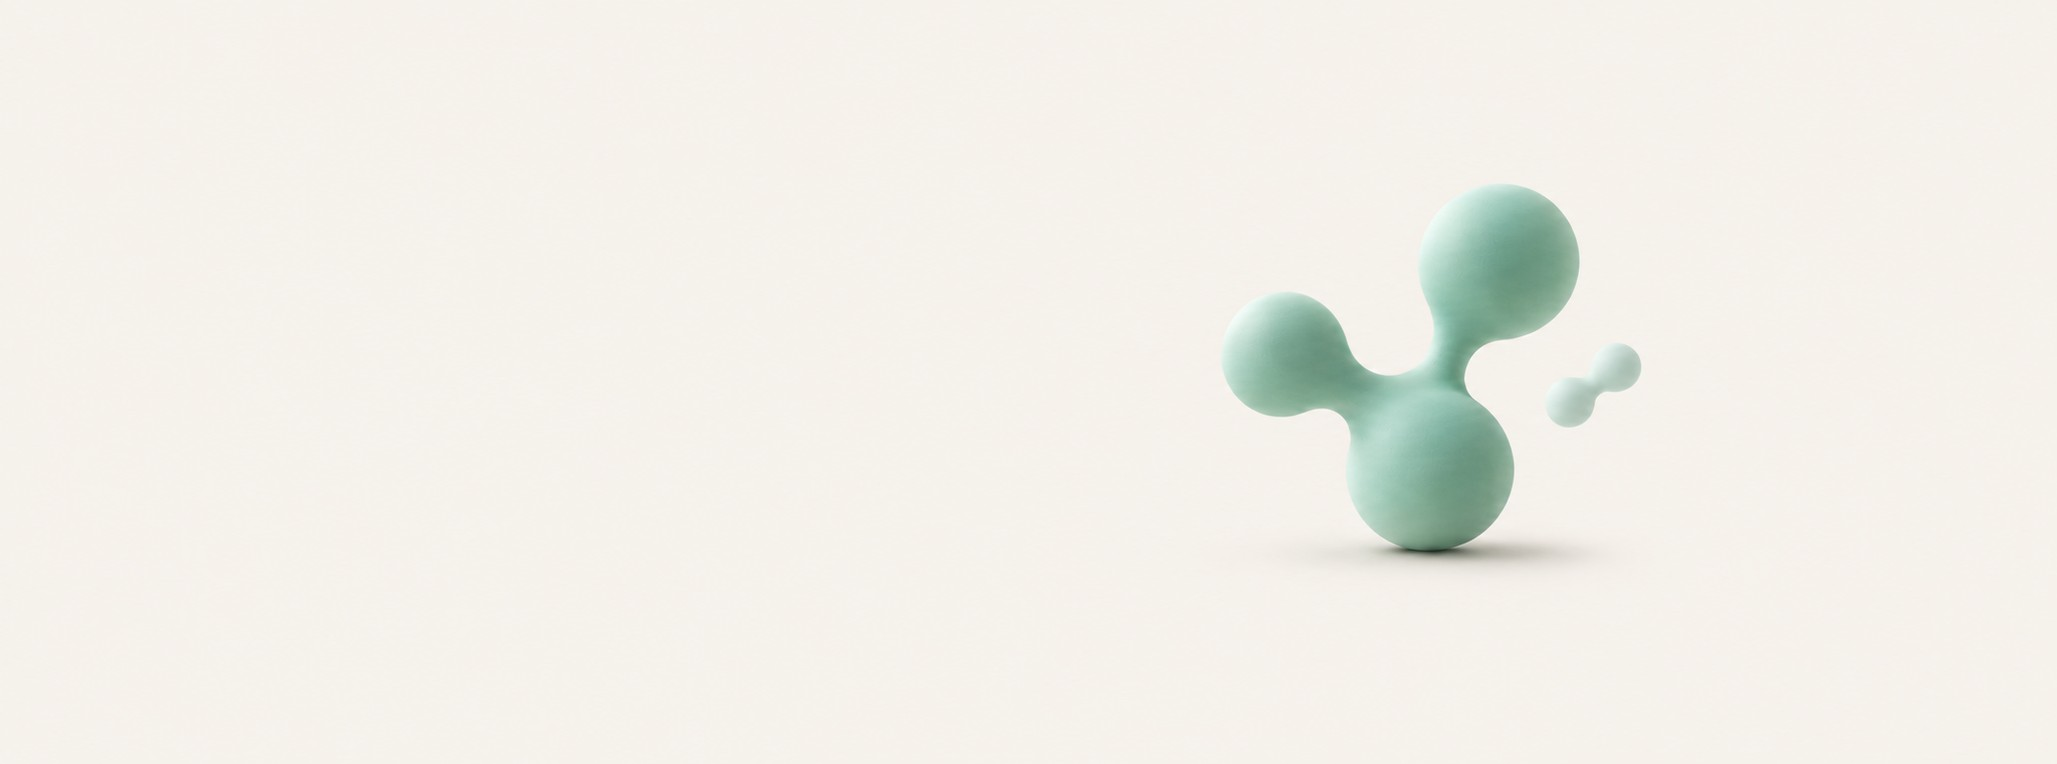
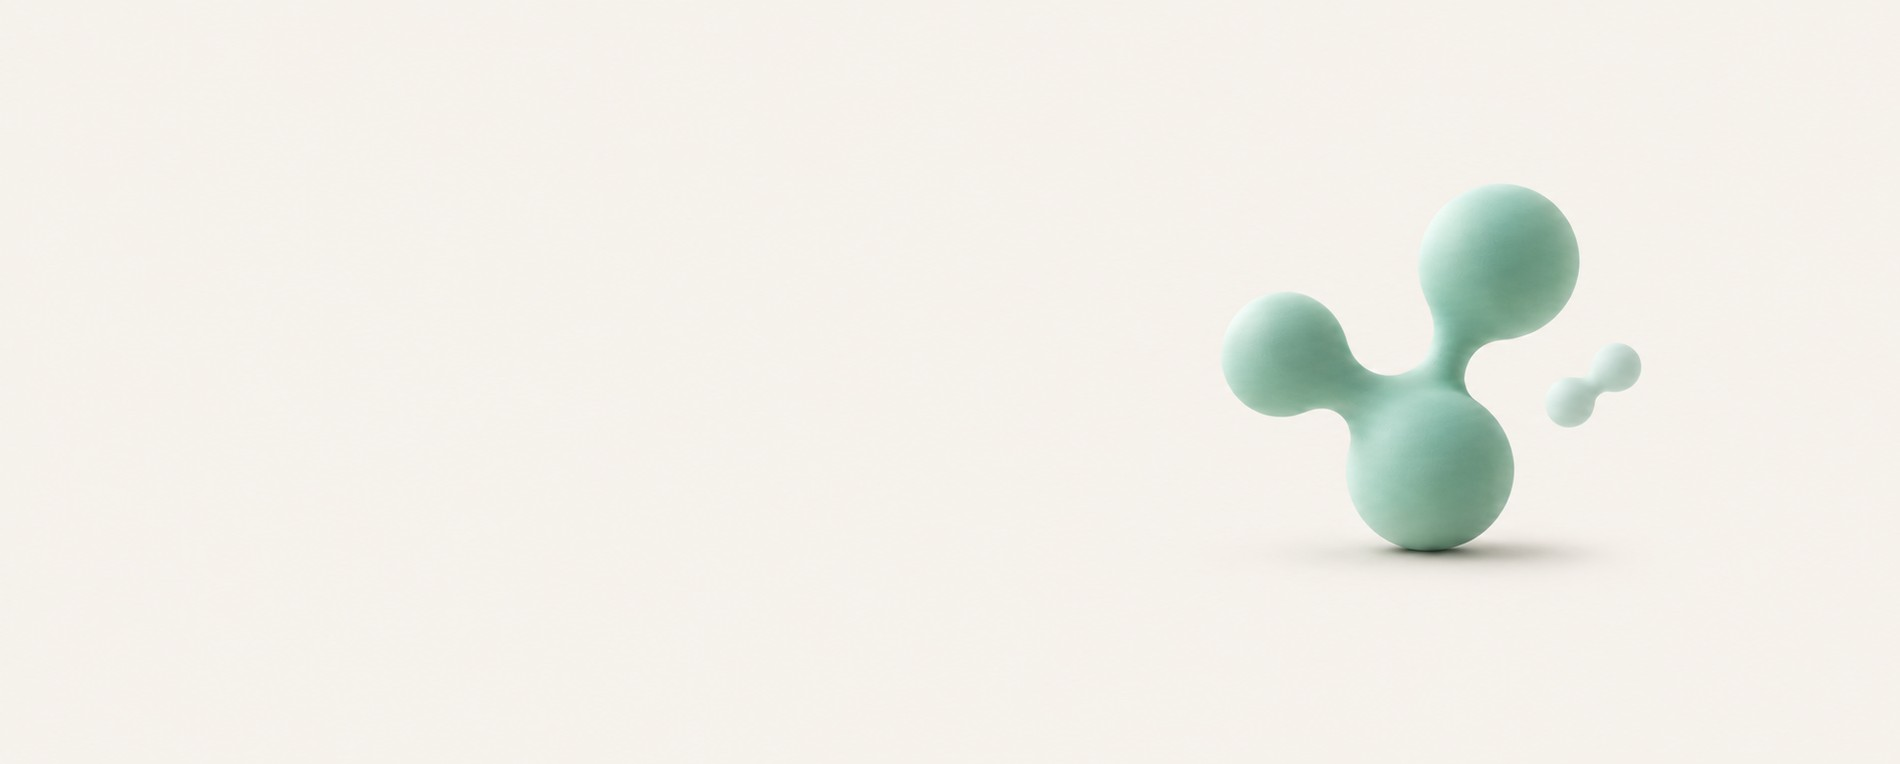
Full-viewport hero, molecule anchored right, glassier nav
Claude-Session: https://claude.ai/code/session_01HsT3WJZKx1Rd495Vy8XRSK

Changed region(s): [[0.59, 0.2408, 0.8695, 0.7526]]

diff --git a/index.html b/index.html
@@ -21,8 +21,10 @@ a{color:#102860;text-decoration:none}
 a:hover{color:#0E8A84}
 button{font-family:inherit}
 @keyframes rise{from{opacity:0;transform:translateY(18px)}to{opacity:1;transform:none}}
-.glass{background:rgba(255,255,255,0.42);-webkit-backdrop-filter:blur(24px) saturate(1.9);backdrop-filter:blur(24px) saturate(1.9);border:1px solid rgba(255,255,255,0.75);border-radius:999px;box-shadow:0 1px 0 rgba(255,255,255,0.9) inset,0 -1px 0 rgba(16,40,96,0.06) inset,0 12px 36px rgba(16,40,96,0.10)}
-@supports not ((backdrop-filter:blur(1px)) or (-webkit-backdrop-filter:blur(1px))){.glass{background:rgba(255,255,255,0.92)}}
+.glass{position:relative;isolation:isolate;background:linear-gradient(135deg,rgba(255,255,255,0.62) 0%,rgba(255,255,255,0.30) 55%,rgba(255,255,255,0.42) 100%);-webkit-backdrop-filter:blur(16px) saturate(1.4) brightness(1.03);backdrop-filter:blur(16px) saturate(1.4) brightness(1.03);border:1px solid rgba(255,255,255,0.9);border-radius:999px;box-shadow:0 1px 0 rgba(255,255,255,1) inset,0 10px 30px rgba(16,40,96,0.08),0 1px 2px rgba(16,40,96,0.06)}
+.glass::before{content:'';position:absolute;inset:0;border-radius:inherit;background:linear-gradient(180deg,rgba(255,255,255,0.55) 0%,rgba(255,255,255,0.08) 48%,rgba(255,255,255,0) 52%,rgba(255,255,255,0.18) 100%);pointer-events:none;z-index:-1}
+.glass::after{content:'';position:absolute;inset:0;border-radius:inherit;background:linear-gradient(90deg,rgba(32,176,168,0.07),rgba(255,255,255,0) 30%,rgba(255,255,255,0) 70%,rgba(16,40,96,0.05));pointer-events:none;z-index:-1}
+@supports not ((backdrop-filter:blur(1px)) or (-webkit-backdrop-filter:blur(1px))){.glass{background:rgba(255,255,255,0.94)}}
 @keyframes toastIn{from{opacity:0;transform:translate(-50%,12px)}to{opacity:1;transform:translate(-50%,0)}}
 /* 品牌哲學 panel: scroll-triggered motion. Elements start offset and transparent; the .in class (set by an IntersectionObserver) releases them. */
 #philosophy .mv{opacity:0;transition:opacity .9s cubic-bezier(.2,.7,.2,1),transform .9s cubic-bezier(.2,.7,.2,1),letter-spacing 1.1s cubic-bezier(.2,.7,.2,1)}
@@ -75,9 +77,10 @@ button{font-family:inherit}
 <sc-if value="{{ isHome }}" hint-placeholder-val="{{ true }}">
 <div data-screen-label="品牌理念">
 
-  <section style="position:relative;margin-top:-92px;background:#F5F1EB url('assets/brand/hero-bg.jpg') right center / cover no-repeat;min-height:min(86vh,760px);display:flex;align-items:center;overflow:hidden">
-    <div style="position:absolute;inset:0;background:linear-gradient(90deg, rgba(245,241,235,0.92) 0%, rgba(245,241,235,0.55) 38%, rgba(245,241,235,0) 62%);pointer-events:none"></div>
-    <div style="position:relative;max-width:1280px;width:100%;margin:0 auto;padding:160px 32px 96px">
+  <section style="position:relative;margin-top:-92px;background:#F5F1EB;min-height:max(640px,100vh);display:flex;align-items:center;overflow:hidden">
+    <img src="assets/brand/hero-bg.jpg" alt="" aria-hidden="true" style="position:absolute;top:0;right:0;height:100%;width:auto;max-width:none;object-fit:cover;object-position:right center;-webkit-mask-image:linear-gradient(90deg,rgba(0,0,0,0) 0%,#000 45%);mask-image:linear-gradient(90deg,rgba(0,0,0,0) 0%,#000 45%);pointer-events:none">
+    <div style="position:absolute;inset:0;background:linear-gradient(90deg, rgba(245,241,235,0.85) 0%, rgba(245,241,235,0.35) 40%, rgba(245,241,235,0) 60%);pointer-events:none"></div>
+    <div style="position:relative;max-width:1280px;width:100%;margin:0 auto;padding:140px 32px 96px">
       <div style="max-width:560px">
         <p style="margin:0 0 28px;font-size:13px;letter-spacing:0.32em;color:#0E8A84;font-weight:600">SCIENCE · BALANCE · LIFE</p>
         <h1 style="margin:0 0 32px;font-size:clamp(40px,5vw,68px);line-height:1.2;font-weight:500;color:#102860;letter-spacing:0.04em;text-wrap:pretty">探索生命的<br>平衡之美。</h1>
